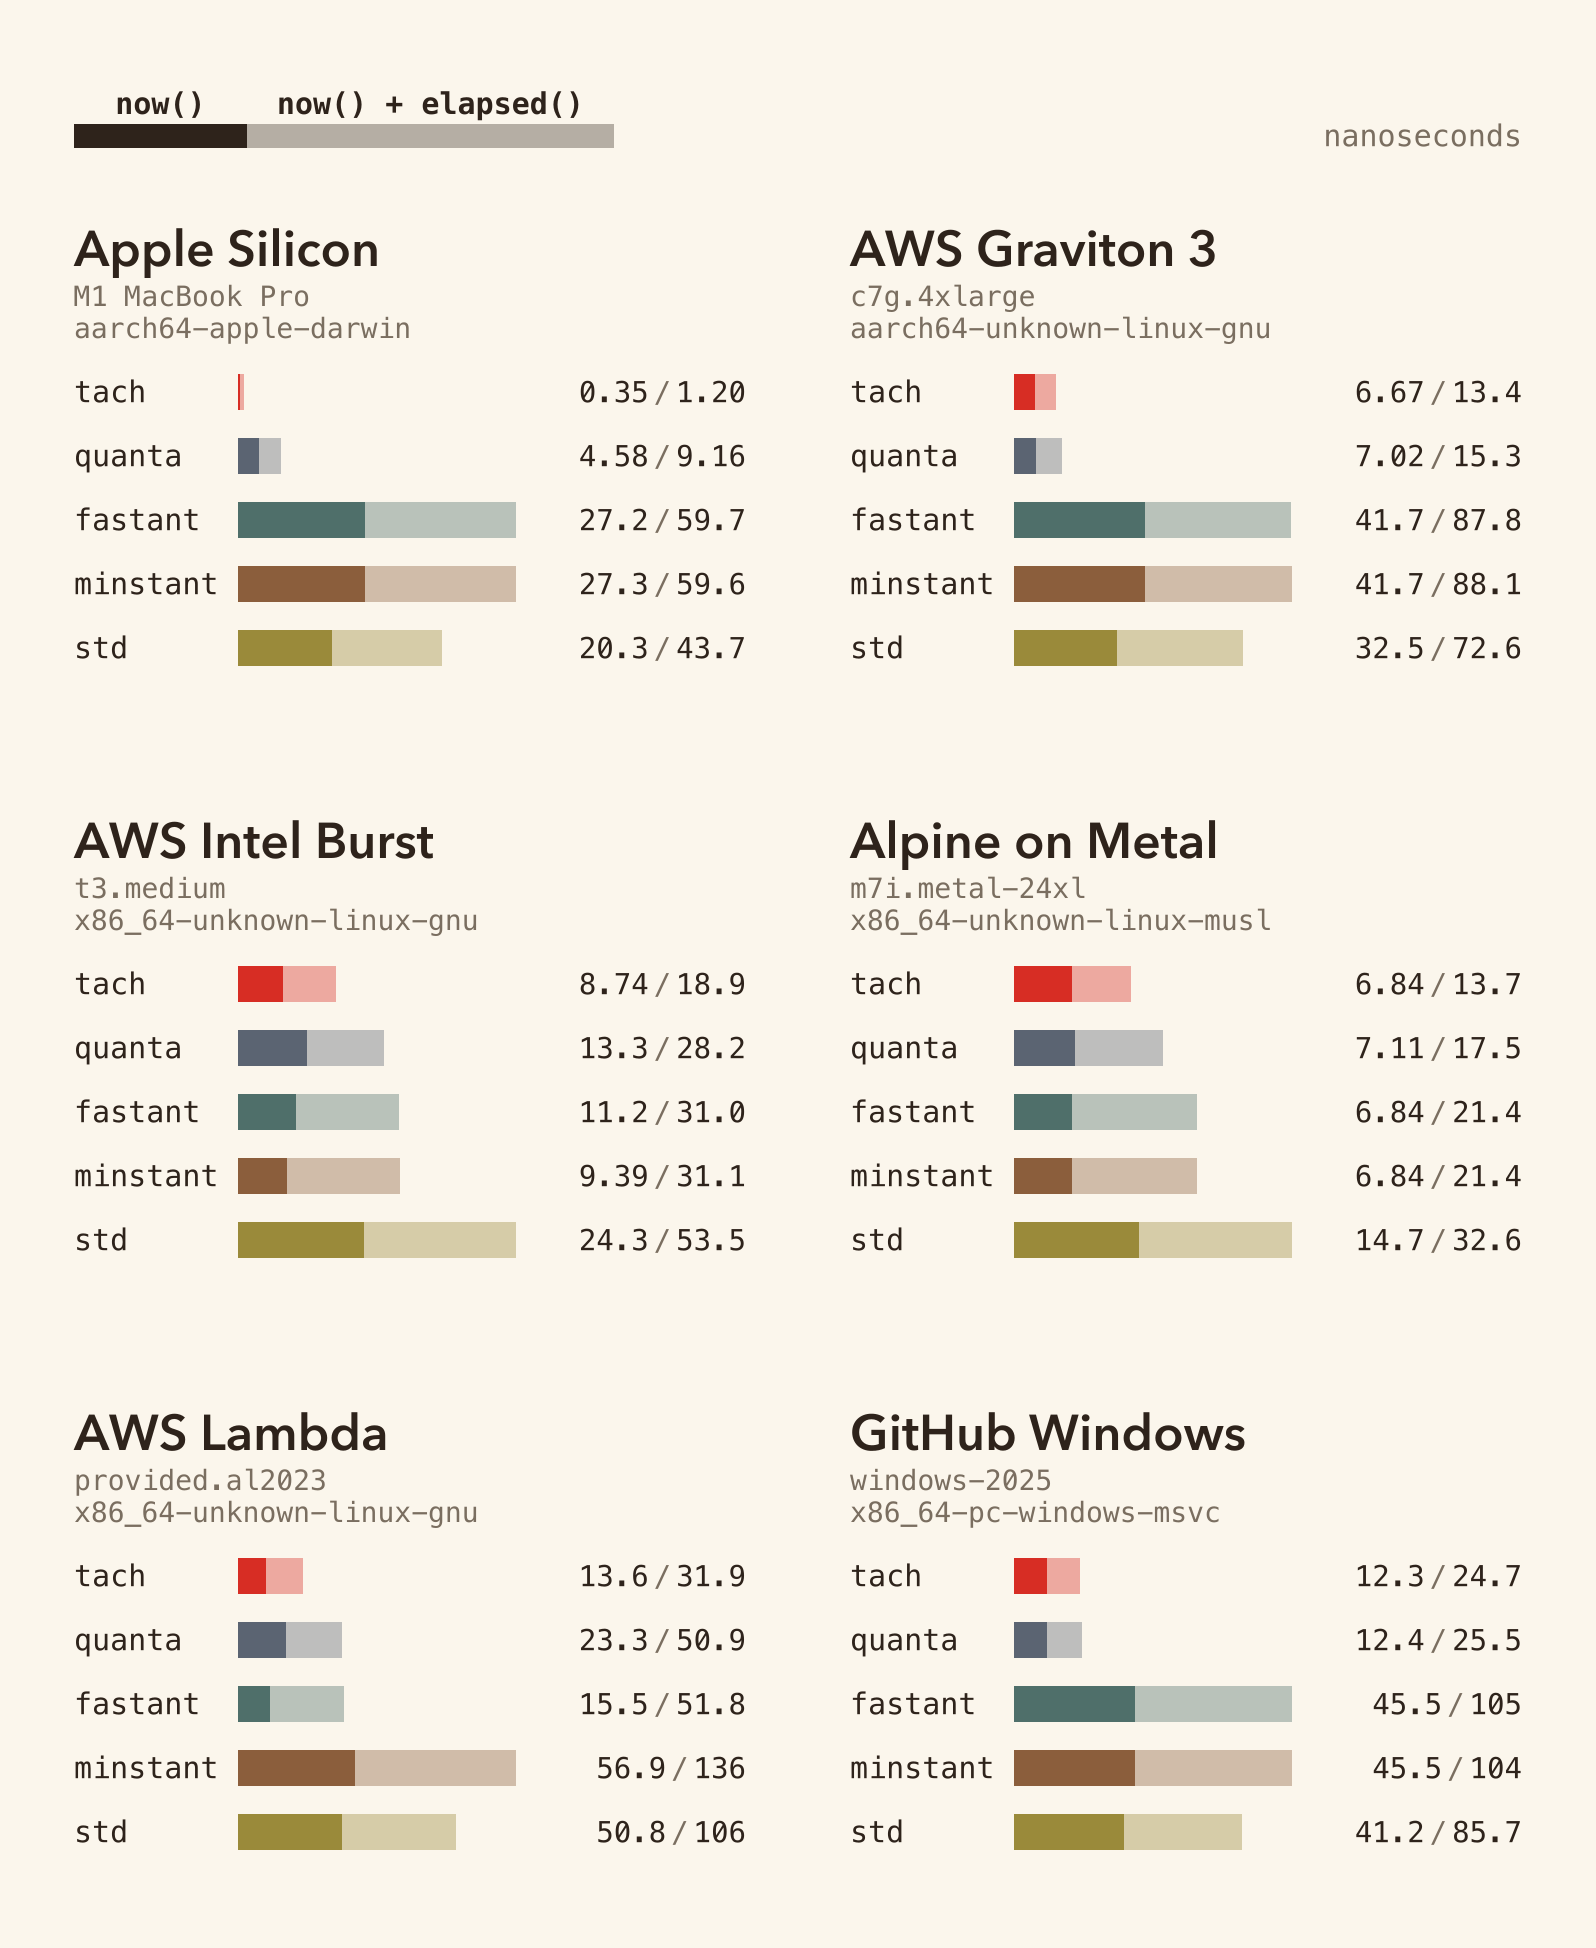
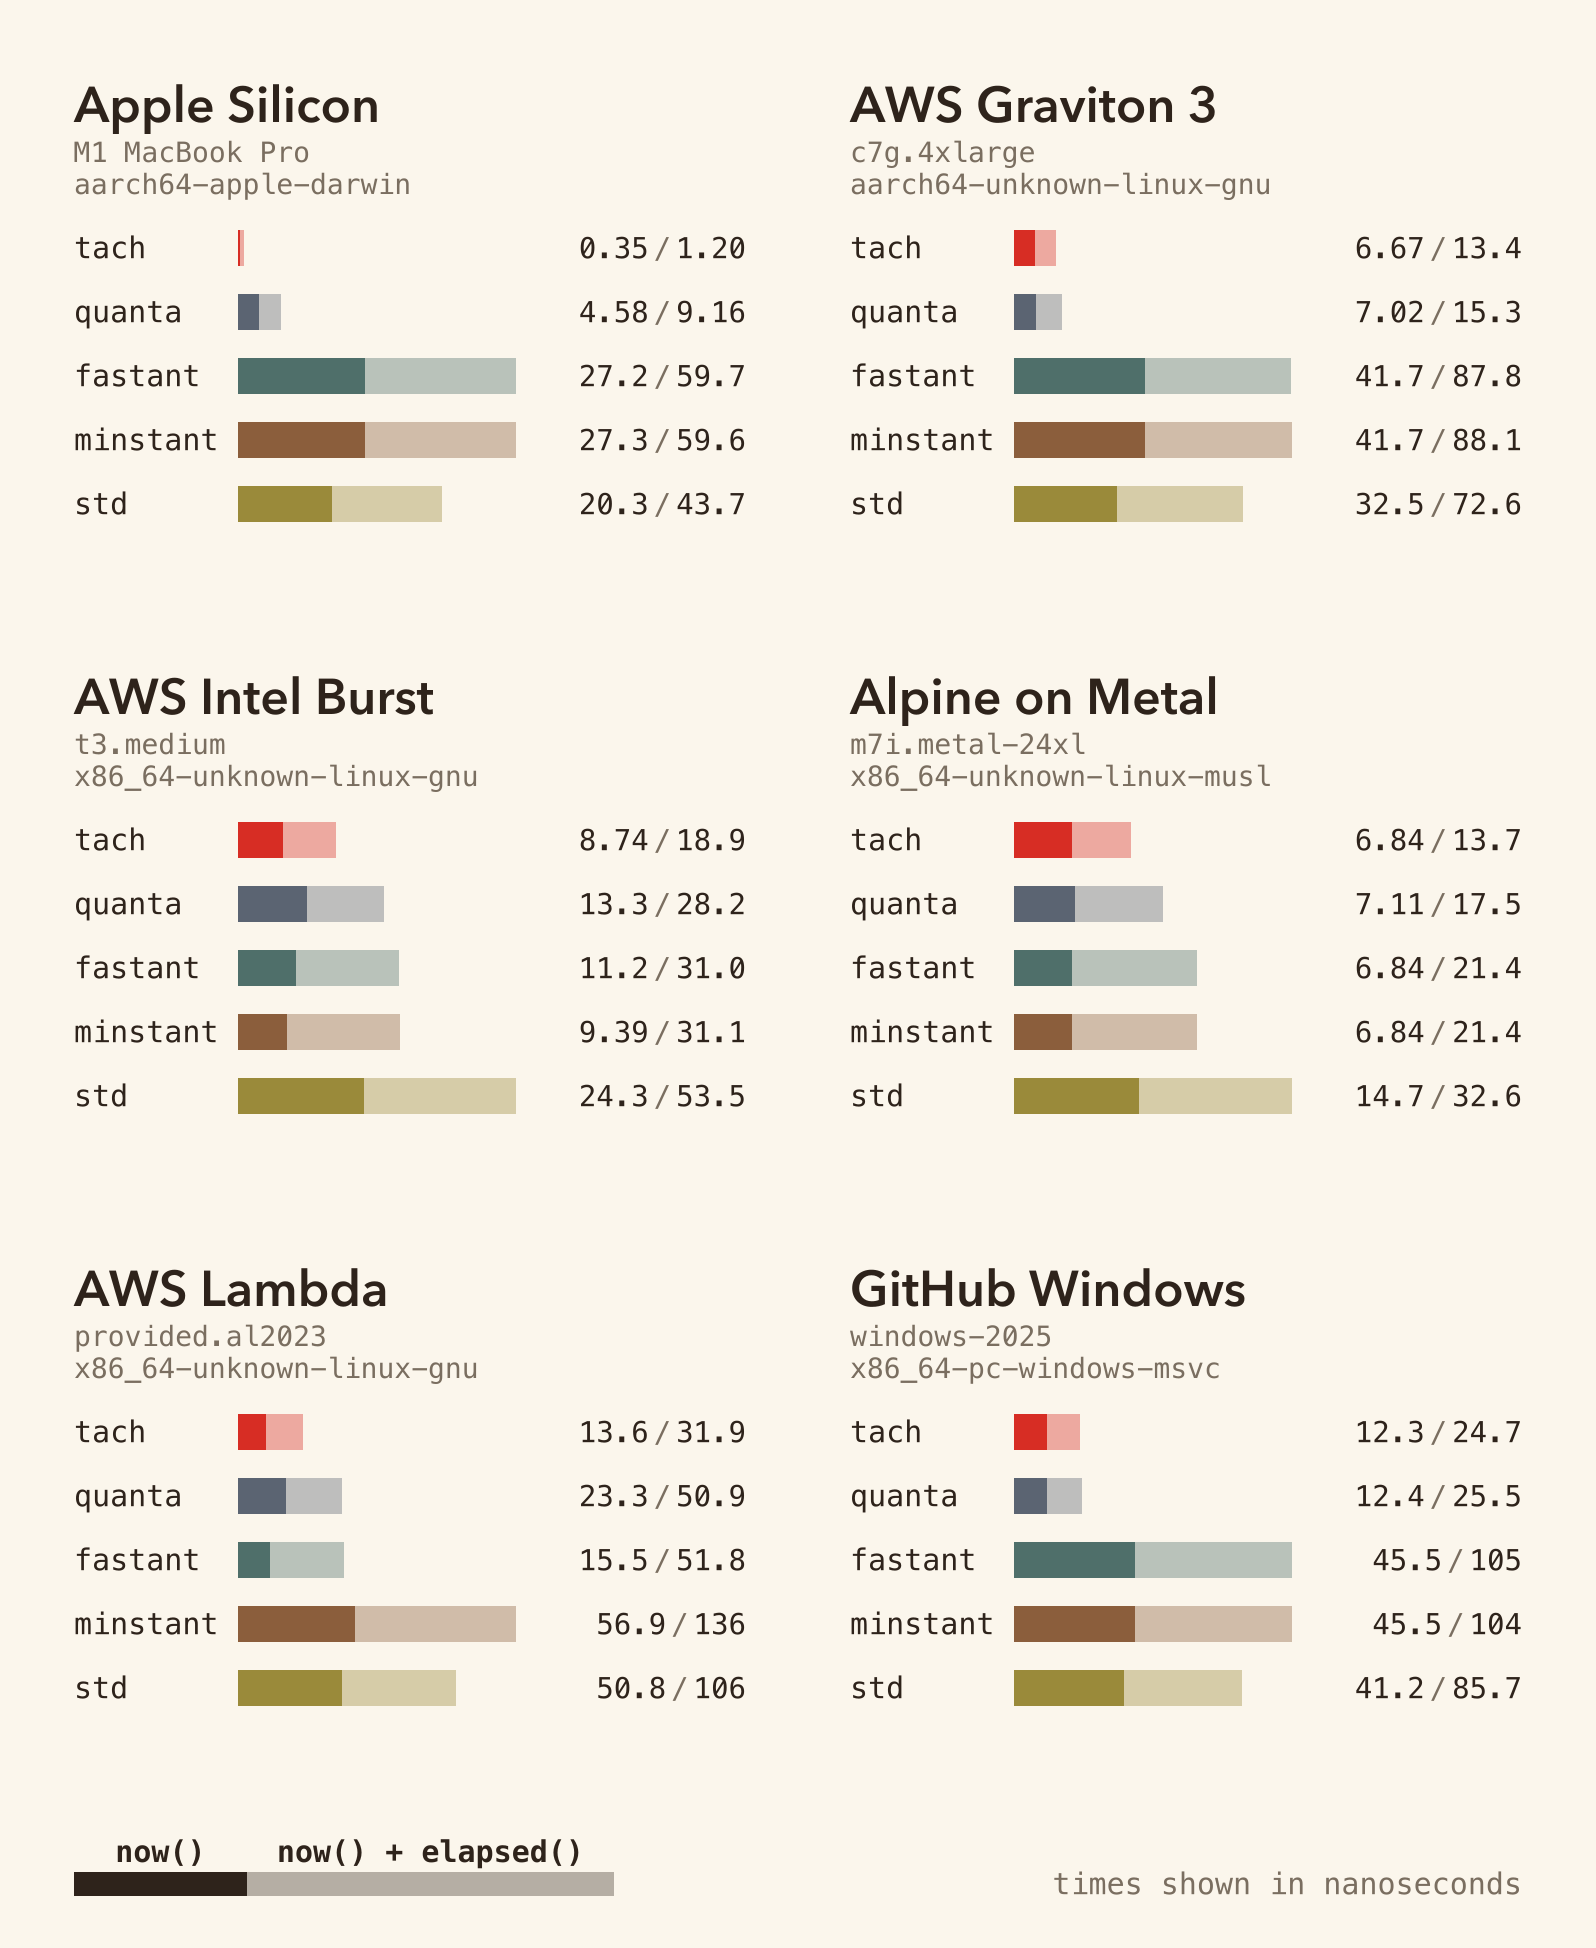
docs(benches): move legend to bottom, clarify unit label
- Sample bar + "now()" / "now() + elapsed()" labels relocated
  from top of chart to below the data cells.
- "nanoseconds" expanded to "times shown in nanoseconds" so
  the unit context reads as a complete sentence.

diff --git a/benches/assets/render_benchmark.py b/benches/assets/render_benchmark.py
@@ -393,7 +393,7 @@ def render_grid_header(width: float, y0: float) -> list[str]:
   unit_baseline = bar_y + GRID_HEADER_BAR_HEIGHT / 2 + GRID_LABEL_FONT_SIZE * 0.34
   parts.append(
     styled_text(
-      content_right, unit_baseline, "nanoseconds",
+      content_right, unit_baseline, "times shown in nanoseconds",
       GRID_LABEL_FONT_SIZE, family=MONO, anchor="end", color=MUTED_FG,
     )
   )
@@ -403,8 +403,10 @@ def render_grid_header(width: float, y0: float) -> list[str]:
 def render_grid_svg(now_groups, elapsed_groups, crates) -> str:
   rows = (len(now_groups) + GRID_COLS - 1) // GRID_COLS
   width = GRID_COLS * GRID_CELL_W + (GRID_COLS - 1) * GRID_COL_GAP + 2 * GRID_MARGIN
-  cells_top = GRID_MARGIN + GRID_HEADER_HEIGHT + GRID_HEADER_GAP
-  height = cells_top + rows * GRID_CELL_H + (rows - 1) * GRID_ROW_GAP + GRID_MARGIN
+  cells_top = GRID_MARGIN
+  cells_bottom = cells_top + rows * GRID_CELL_H + (rows - 1) * GRID_ROW_GAP
+  legend_top = cells_bottom + GRID_HEADER_GAP
+  height = legend_top + GRID_HEADER_HEIGHT + GRID_MARGIN
 
   parts = [
     '<?xml version="1.0" encoding="UTF-8"?>',
@@ -416,14 +418,14 @@ def render_grid_svg(now_groups, elapsed_groups, crates) -> str:
     '<g shape-rendering="crispEdges">',
   ]
 
-  parts.extend(render_grid_header(width, GRID_MARGIN))
-
   for i, (ng, eg) in enumerate(zip(now_groups, elapsed_groups)):
     col = i % GRID_COLS
     row = i // GRID_COLS
     x = GRID_MARGIN + col * (GRID_CELL_W + GRID_COL_GAP)
     y = cells_top + row * (GRID_CELL_H + GRID_ROW_GAP)
     parts.extend(render_grid_cell(ng, eg, crates, x, y))
+
+  parts.extend(render_grid_header(width, legend_top))
 
   parts.append("</g>")
   parts.append("</svg>")
